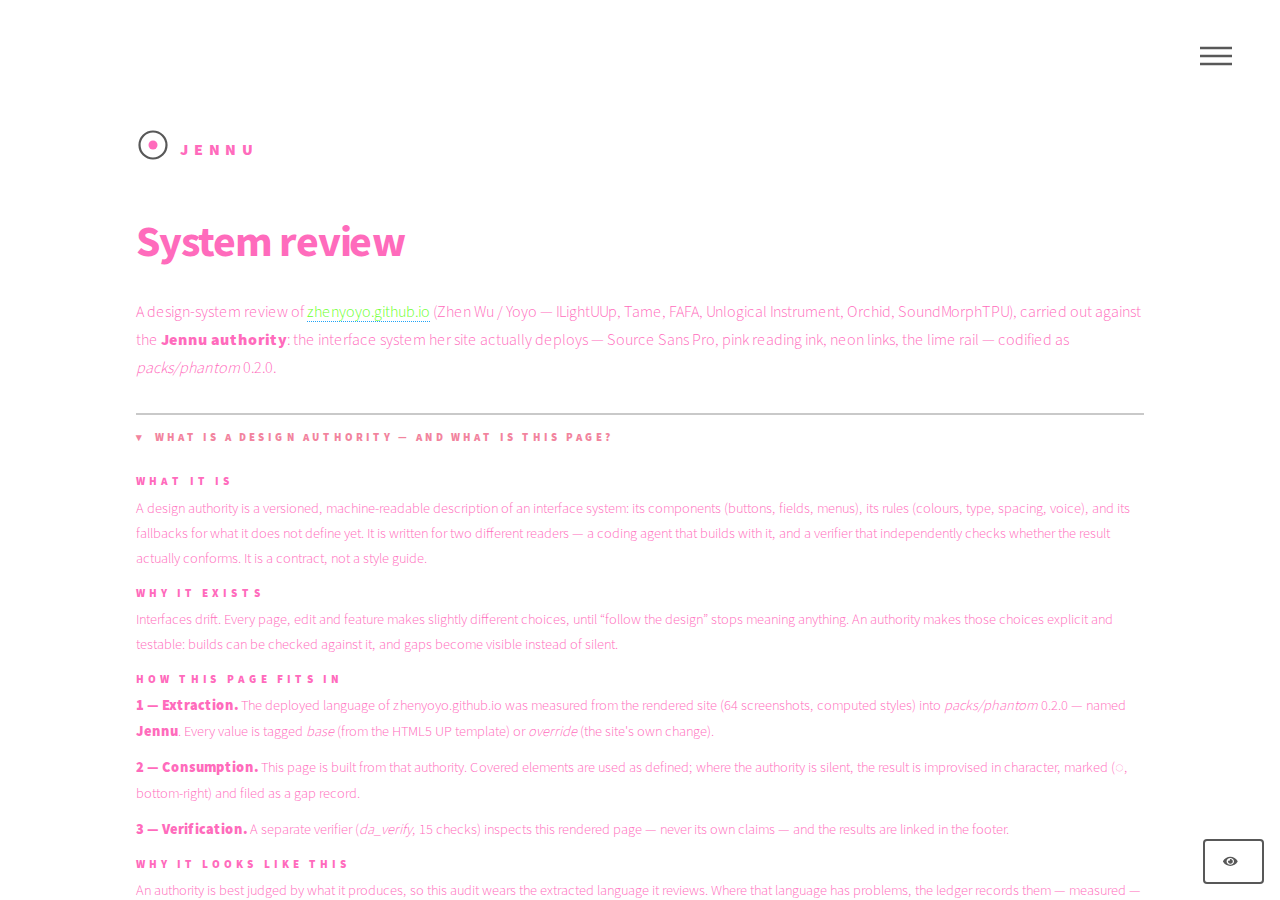
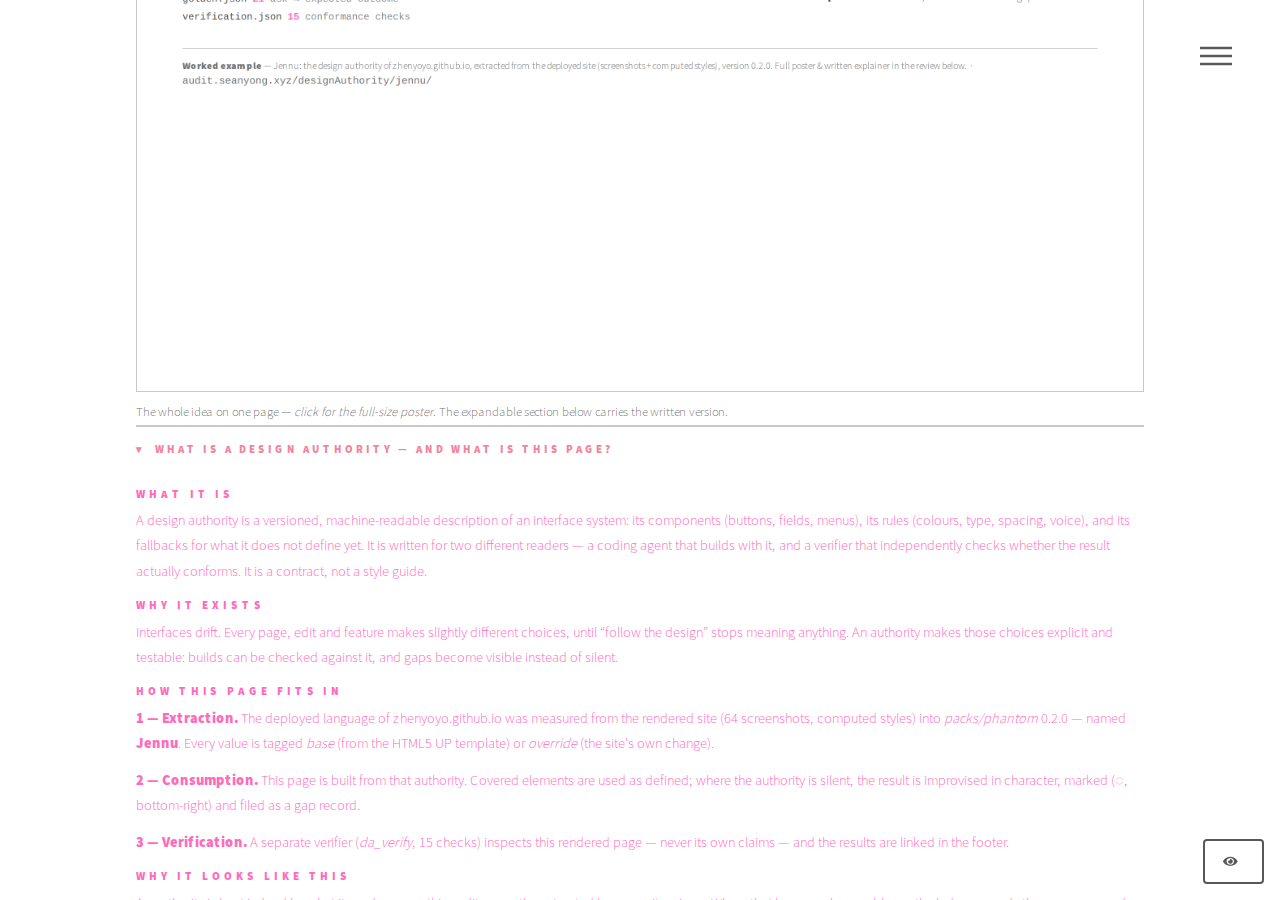
audit: design-authority 'at a glance' hero graphic at the top of the overview (click-through to the full poster); hero render target + tests

diff --git a/docs/explainers/design-authority-hero.html b/docs/explainers/design-authority-hero.html
@@ -1,0 +1,115 @@
+<!DOCTYPE html>
+<html lang="en">
+<head>
+<meta charset="utf-8" />
+<title>Design authority — at a glance</title>
+<style>
+  @font-face { font-family: "Source Sans Pro"; font-style: normal; font-weight: 300; src: url("/examples/phantom-audit/assets/fonts/source-sans-pro-300-latin.woff2") format("woff2"); }
+  @font-face { font-family: "Source Sans Pro"; font-style: normal; font-weight: 400; src: url("/examples/phantom-audit/assets/fonts/source-sans-pro-400-latin.woff2") format("woff2"); }
+  @font-face { font-family: "Source Sans Pro"; font-style: normal; font-weight: 700; src: url("/examples/phantom-audit/assets/fonts/source-sans-pro-700-latin.woff2") format("woff2"); }
+  @font-face { font-family: "Source Sans Pro"; font-style: normal; font-weight: 900; src: url("/examples/phantom-audit/assets/fonts/source-sans-pro-900-latin.woff2") format("woff2"); }
+
+  * { box-sizing: border-box; margin: 0; padding: 0; }
+  body { font-family: "Source Sans Pro", Helvetica, sans-serif; font-weight: 300; color: #585858;
+         width: 1240px; background: #fff; line-height: 1.5; }
+  .wrap { padding: 44px 56px 40px 56px; }
+  code { font-family: "Courier New", monospace; font-size: 12.5px; background: rgba(46,90,249,0.986); color: #ff6bbc; padding: 1px 6px; border-radius: 4px; }
+  .mono { font-family: "Courier New", monospace; font-size: 12.5px; }
+  strong { font-weight: 900; }
+
+  .kicker { font-size: 12.5px; font-weight: 900; letter-spacing: 0.35em; text-transform: uppercase; color: #ff6bbc; }
+  .sub { font-size: 13px; color: rgba(88,88,88,0.8); }
+  h1 { font-size: 30px; font-weight: 700; letter-spacing: -0.02em; color: #ff6bbc; margin: 6px 0 4px 0; line-height: 1.12; }
+  .head { display: flex; justify-content: space-between; align-items: flex-end; border-bottom: solid 2px #c9c9c9; padding-bottom: 16px; margin-bottom: 24px; }
+
+  .cols { display: flex; gap: 38px; }
+  .col { flex: 1 1 0; min-width: 0; }
+  h2 { font-size: 13px; font-weight: 900; letter-spacing: 0.3em; text-transform: uppercase; color: #585858; margin: 0 0 12px 0; }
+  h2 .n { color: #ff6bbc; margin-right: 8px; }
+
+  p.lead { font-size: 14px; margin-bottom: 12px; }
+
+  .filelist { font-family: "Courier New", monospace; font-size: 12px; line-height: 1.85; }
+  .filelist .cnt { color: #ff6bbc; font-weight: 700; }
+  .filelist .c { color: rgba(88,88,88,0.7); }
+
+  .fstep { display: flex; align-items: center; gap: 10px; margin-bottom: 4px; }
+  .fstep .box { flex: 1; border: solid 1px #c9c9c9; padding: 5px 10px; font-size: 12.5px; }
+  .fstep .box b { font-weight: 900; font-size: 11.5px; letter-spacing: 0.14em; text-transform: uppercase; margin-right: 6px; }
+  .fstep .arr { color: #ff6bbc; font-weight: 900; font-size: 14px; width: 14px; text-align: center; }
+  .fstep.split .box.l { border-left: solid 3px #ff6bbc; }
+  .fstep.split .box.r { border-left: solid 3px #20a3f5; }
+  .fstep .box.report { border-left: solid 3px #3ef900; background: rgba(62,249,0,0.12); }
+
+  .evol li { list-style: none; font-size: 13px; margin-bottom: 8px; padding-left: 18px; position: relative; }
+  .evol li::before { content: "—"; position: absolute; left: 0; color: #ff6bbc; font-weight: 900; }
+  .chip { display: inline-block; font-size: 10.5px; font-weight: 900; letter-spacing: 0.14em; text-transform: uppercase;
+          border: solid 1px #585858; padding: 1px 7px; margin-right: 6px; }
+  .chip.p { border-color: #ff6bbc; color: #ff6bbc; }
+  .chip.b { border-color: #20a3f5; color: #315df9; }
+  .chip.g { border-color: #3ef900; background: rgba(62,249,0,0.16); }
+  .chip.v { border-color: #8833e3; color: #8833e3; }
+
+  .footer { margin-top: 26px; border-top: solid 1px #c9c9c9; padding-top: 12px; font-size: 12px; color: rgba(88,88,88,0.85); }
+</style>
+</head>
+<body>
+<div class="wrap">
+
+  <div class="head">
+    <div>
+      <div class="kicker">Design authority &middot; at a glance</div>
+      <h1>The system that builds the system</h1>
+      <div class="sub">a versioned contract that a coding agent builds from — and a verifier checks, independently</div>
+    </div>
+    <div class="sub" style="text-align:right;">worked example: <strong>Jennu</strong><br/><span class="mono">packs/phantom</span> 0.2.0 &middot; zhenyoyo.github.io</div>
+  </div>
+
+  <div class="cols">
+    <!-- 1 -->
+    <div class="col">
+      <h2><span class="n">01</span>The contract</h2>
+      <p class="lead">A design authority is a versioned, machine-readable description of an interface system: components, rules, fallbacks — written to be read by tools, not just people. <strong>A contract, not a style guide.</strong></p>
+      <div class="filelist">
+<span class="c">packs/phantom/</span> <span class="c">— plain JSON, no database</span><br/>
+artifacts.json <span class="cnt">29</span> <span class="c">components · token-sets · layouts</span><br/>
+rules.json <span class="cnt">8</span> <span class="c">· prohibitions <span class="cnt">2</span> · fallbacks <span class="cnt">4</span></span><br/>
+precedents.json <span class="cnt">1</span> <span class="c"> · candidates.json <span class="cnt">3</span></span><br/>
+golden.json <span class="cnt">21</span> <span class="c">ask → expected outcome</span><br/>
+verification.json <span class="cnt">15</span> <span class="c">conformance checks</span>
+      </div>
+    </div>
+
+    <!-- 2 -->
+    <div class="col">
+      <h2><span class="n">02</span>Two consumers</h2>
+      <div class="fstep"><span class="arr">▸</span><div class="box"><b>Authority</b>the pack — one contract</div></div>
+      <div class="fstep split"><span class="arr">▸</span>
+        <div class="box l"><b>Agent</b>resolves every ask; builds</div></div>
+      <div class="fstep"><span class="arr">▸</span><div class="box"><b>Artifact</b>the built interface<br/><span class="c mono" style="font-size:11.5px;">silences → marked improvisation + filed gap</span></div></div>
+      <div class="fstep split"><span class="arr">▸</span>
+        <div class="box r"><b>Verifier</b>inspects the artifact — never the agent's claims</div></div>
+      <div class="fstep"><span class="arr">▸</span><div class="box report"><b>Report</b>15/15 checks · published with hash-covers</div></div>
+    </div>
+
+    <!-- 3 -->
+    <div class="col">
+      <h2><span class="n">03</span>How it evolves</h2>
+      <ul class="evol">
+        <li><span class="chip">v0.1.0</span><span class="chip" style="border-color:#f51616;color:#f51616;">rejected</span><span class="chip p">v0.2.0</span><br/>
+        frozen, verified — but extracted from the wrong layer. Rendered evidence overruled it; the reversal is recorded as a <strong>precedent</strong>, not hidden.</li>
+        <li><span class="chip v">rule</span> editorial edit → patch bump &middot; semantic change → minor bump + <strong>fresh freeze</strong> (all files re-hashed).</li>
+        <li><span class="chip g">rule</span> precedents persist across versions — agents never relitigate a settled decision.</li>
+        <li><span class="chip b">rule</span> ambitions become candidates with an explicit <strong>promote-when</strong> bar; friction becomes filed gaps.</li>
+      </ul>
+    </div>
+  </div>
+
+  <div class="footer">
+    <strong>Worked example</strong> — Jennu: the design authority of zhenyoyo.github.io, extracted from the deployed site (screenshots + computed styles), version 0.2.0.
+    Full poster &amp; written explainer in the review below. &nbsp;·&nbsp; <span class="mono">audit.seanyong.xyz/designAuthority/jennu/</span>
+  </div>
+
+</div>
+</body>
+</html>

diff --git a/examples/phantom-audit/index.html b/examples/phantom-audit/index.html
@@ -64,6 +64,10 @@
 								against the <strong>Jennu authority</strong>: the interface system her site actually deploys — Source Sans Pro,
 								pink reading ink, neon links, the lime rail — codified as <em>packs/phantom</em> 0.2.0.</p>
 							</header>
+							<figure class="expl-figure top-graphic" data-improvised data-mk="top graphic (console kit)">
+								<a href="assets/explainer/design-authority.png" target="_blank" rel="noopener"><img src="assets/explainer/design-authority-hero.png" alt="Design authority at a glance — the contract, its two consumers, how it versions and evolves" /></a>
+								<figcaption>The whole idea on one page — <em>click for the full-size poster</em>. The expandable section below carries the written version.</figcaption>
+							</figure>
 							<details class="explainer" data-improvised data-mk="explainer (console kit)">
 								<summary>What is a Design Authority — and what is this page?</summary>
 								<div class="expl-body">

diff --git a/docs/explainers/build_explainer.py b/docs/explainers/build_explainer.py
@@ -13,8 +13,8 @@ import time
 from playwright.sync_api import sync_playwright
 
 REPO = "/home/xrim/design-authority"
-SRC = "docs/explainers/design-authority.html"
-OUT = os.path.join(REPO, "docs/explainers/design-authority.png")
+TARGETS = [("docs/explainers/design-authority.html", "docs/explainers/design-authority.png"),
+           ("docs/explainers/design-authority-hero.html", "docs/explainers/design-authority-hero.png")]
 
 s = socket.socket(); s.bind(("127.0.0.1", 0)); port = s.getsockname()[1]; s.close()
 proc = subprocess.Popen([sys.executable, "-m", "http.server", str(port), "--bind", "127.0.0.1", "--directory", REPO],
@@ -24,13 +24,14 @@ try:
     with sync_playwright() as p:
         b = p.chromium.launch()
         pg = b.new_context(viewport={"width": 1240, "height": 900}, device_scale_factor=2).new_page()
-        pg.goto(f"http://127.0.0.1:{port}/{SRC}", wait_until="load")
-        pg.wait_for_timeout(900)
-        pg.evaluate("document.fonts.ready")
-        pg.wait_for_timeout(400)
-        pg.screenshot(path=OUT, full_page=True)
-        h = pg.evaluate("document.body.scrollHeight")
-        print(f"rendered {SRC} -> {OUT} (logical {h}px tall, @2x)")
+        for src, out in TARGETS:
+            pg.goto(f"http://127.0.0.1:{port}/{src}", wait_until="load")
+            pg.wait_for_timeout(900)
+            pg.evaluate("document.fonts.ready")
+            pg.wait_for_timeout(400)
+            pg.screenshot(path=os.path.join(REPO, out), full_page=True)
+            h = pg.evaluate("document.body.scrollHeight")
+            print(f"rendered {src} -> {out} (logical {h}px tall, @2x)")
         b.close()
 finally:
     proc.terminate()

diff --git a/docs/synthesis/phantom/tools/app_test.py b/docs/synthesis/phantom/tools/app_test.py
@@ -40,6 +40,7 @@ with sync_playwright() as p:
     check("fonts loaded (300 body)", pg.evaluate("document.fonts.check('300 16px \"Source Sans Pro\"')"))
 
     # explainer accordion
+    check("top graphic present (hero)", pg.evaluate("!!document.querySelector('.top-graphic img') && document.querySelector('.top-graphic img').getAttribute('src').indexOf('design-authority-hero.png') > -1"))
     check("explainer starts collapsed", pg.evaluate("!document.querySelector('details.explainer').open"))
     pg.click("details.explainer > summary")
     pg.wait_for_timeout(150)
